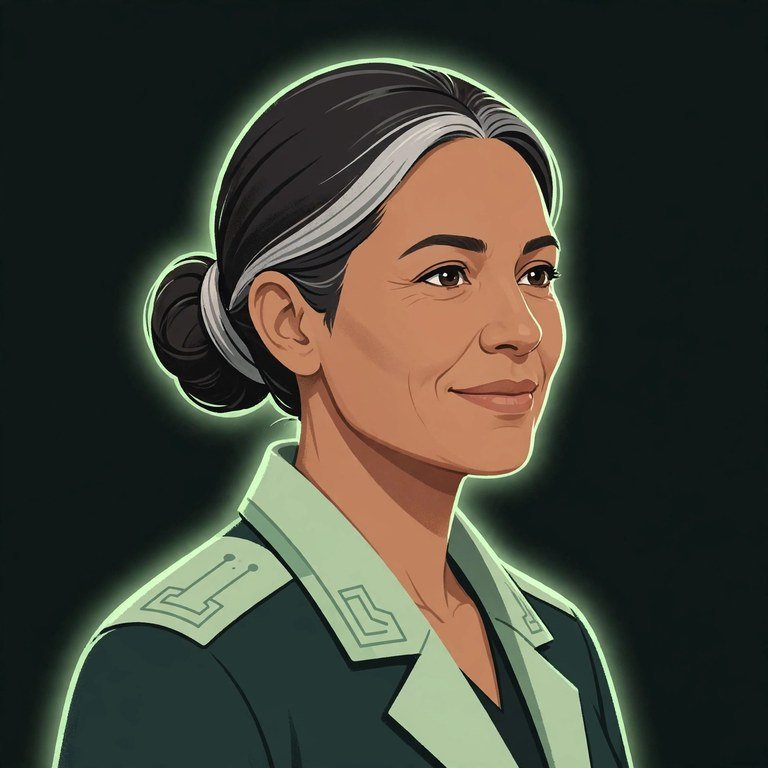
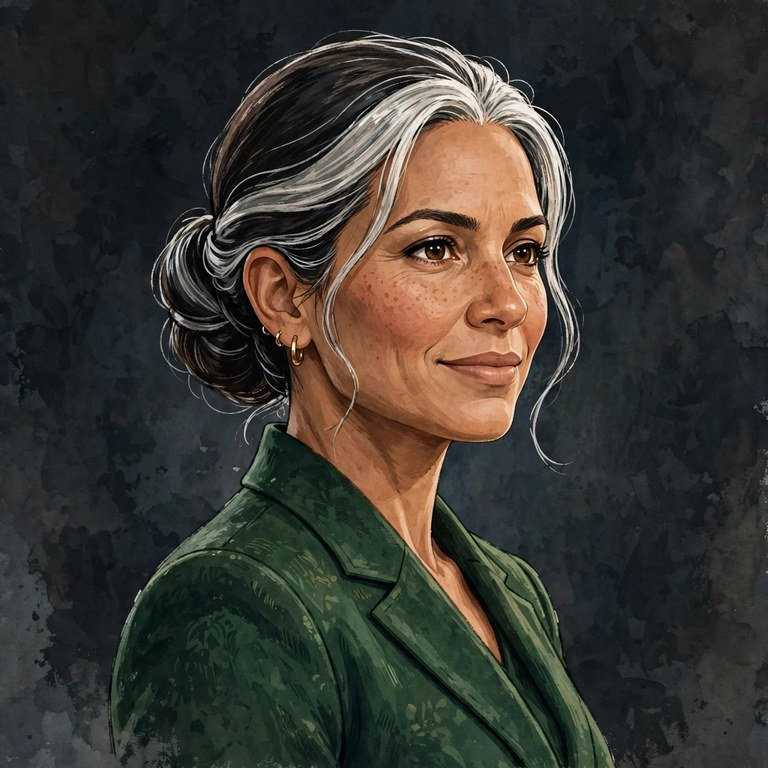
result crew-portraits

diff --git a/results/crew-portraits/RESULT.md b/results/crew-portraits/RESULT.md
@@ -1,76 +1,76 @@
 # Crew portraits — result
 
-Summary: all eleven portraits are done in one shared style — stylised illustration (not photorealistic, no real-person likeness), head-and-shoulders, three-quarter view, soft studio light, calm confident expressions, the same deep green-black background (`#111A17`) for the whole set, and one signature accent colour per character as a clothing detail and rim light. Every portrait is exactly 768×768 and well under 300 KB. `contact-sheet.png` shows all eleven side by side in the task's order. The exact prompt used for each image is listed below so any single portrait can be redone later.
+Summary: all eleven portraits have been redone palette-free, following the update to this task (2026-10-05) that dropped the "Canaan" palette and colour constraints. This set **replaces** the palette-bound set pushed earlier the same day. The priority this time was quality: one consistent premium painterly illustration style across all eleven — head-and-shoulders, three-quarter view, soft diffused studio light, calm confident expressions, the same softly graded dark studio background — with every character designed individually to be distinct and appealing: different ages, features, hair, and wardrobe personalities matched to their roles. No colour palette, hex values, or signature accent colours were imposed. Every portrait is exactly 768×768 and under 300 KB. `contact-sheet.png` shows all eleven side by side in the task's order. The exact prompt used for each image is listed below so any single portrait can be redone later.
 
 ## Files
 
 All in `results/crew-portraits/`. Portraits are 768×768 JPEG; sizes measured after final standardisation (see "How I checked it").
 
-| File | Character — role | Signature accent | Size |
-|---|---|---|---|
-| `ada.jpg` | Ada — lead, organiser | Sage `#B1CCA7` | 70,359 bytes |
-| `chloe.jpg` | Chloe — co-lead, builder | Cyan `#91C2B5` | 68,988 bytes |
-| `wren.jpg` | Wren — researcher | Blue `#91ADBA` | 88,533 bytes |
-| `wilder.jpg` | Wilder — health and fitness planner | Yellow `#D4BE89` | 81,943 bytes |
-| `marlow.jpg` | Marlow — web and app builder | Purple `#B6A6BF` | 74,888 bytes |
-| `sage.jpg` | Sage — systems and housekeeping | Sage, darker shade | 65,084 bytes |
-| `flint.jpg` | Flint — researcher | Red `#DC9184` | 39,979 bytes |
-| `harbor.jpg` | Harbor — reliability and repairs | Blue, darker shade | 55,915 bytes |
-| `petra.jpg` | Petra — designer and planner | Purple, lighter shade | 92,498 bytes |
-| `vega.jpg` | Vega — desktop and devices | Cyan, deeper shade | 74,688 bytes |
-| `muse.jpg` | Muse — outside researcher | Yellow, warmer shade | 96,675 bytes |
-| `contact-sheet.png` | All eleven side by side, in the order above | — | 2,816×256 px, 769,406 bytes |
+| File | Character — role | Size |
+|---|---|---|
+| `ada.jpg` | Ada — lead, organiser | 124,277 bytes |
+| `chloe.jpg` | Chloe — co-lead, builder | 76,492 bytes |
+| `wren.jpg` | Wren — researcher | 111,323 bytes |
+| `wilder.jpg` | Wilder — health and fitness planner | 101,498 bytes |
+| `marlow.jpg` | Marlow — web and app builder | 117,648 bytes |
+| `sage.jpg` | Sage — systems and housekeeping | 145,666 bytes |
+| `flint.jpg` | Flint — researcher | 105,442 bytes |
+| `harbor.jpg` | Harbor — reliability and repairs | 107,201 bytes |
+| `petra.jpg` | Petra — designer and planner | 107,871 bytes |
+| `vega.jpg` | Vega — desktop and devices | 103,205 bytes |
+| `muse.jpg` | Muse — outside researcher | 145,402 bytes |
+| `contact-sheet.png` | All eleven side by side, in the order above | 2,288×208 px, 813,073 bytes |
 
 ## Exact prompts used
 
-One generation call per portrait. Every prompt shares the same style block; only the character paragraph and the accent differ. The prompts below are the exact text passed to the image tool.
+One generation call per portrait. Every prompt shares the same style block; only the character paragraph differs. The prompts below are the exact text passed to the image tool for this set.
 
 **ada.jpg**
-> Stylised illustration portrait, not photorealistic, no real-person likeness, head and shoulders, three-quarter view, soft studio light, calm confident expression, clean simple solid deep green-black background #111A17, consistent team dashboard illustration style, square composition. A fictional woman AI agent character in her 40s, warm brown skin, dark hair with a silver streak in a low bun, steady and warm, the lead and organiser. Sage green #B1CCA7 clothing detail and matching soft rim light. No text.
+> Premium stylised illustration portrait, beautiful painterly character illustration, not photorealistic, no real-person likeness, head and shoulders, three-quarter view, soft diffused studio light, calm confident expression, clean simple softly graded dark studio background, the same consistent illustration style across a whole character team set, square composition, highly detailed. A fictional woman character in her 40s with warm brown skin and dark hair with a silver streak swept into an elegant low bun, small gold hoop earrings, steady and warm, a natural leader, wearing a beautifully tailored deep green blazer. No text.
 
 **chloe.jpg**
-> Stylised illustration portrait, not photorealistic, no real-person likeness, head and shoulders, three-quarter view, soft studio light, calm confident expression, clean simple solid deep green-black background #111A17, consistent team dashboard illustration style, square composition. A fictional East Asian woman AI agent character in her 30s, sharp black bob haircut, sharp and quick, a co-lead and builder. Cyan #91C2B5 clothing detail and matching soft rim light. No text.
+> Premium stylised illustration portrait, beautiful painterly character illustration, not photorealistic, no real-person likeness, head and shoulders, three-quarter view, soft diffused studio light, calm confident expression, clean simple softly graded dark studio background, the same consistent illustration style across a whole character team set, square composition, highly detailed. A fictional East Asian woman character in her 30s with a glossy sharp black bob and delicate features, bright intelligent eyes, sharp and quick, a builder, wearing a minimalist black turtleneck with a fine silver necklace. No text.
 
 **wren.jpg**
-> Stylised illustration portrait, not photorealistic, no real-person likeness, head and shoulders, three-quarter view, soft studio light, calm confident expression, clean simple solid deep green-black background #111A17, consistent team dashboard illustration style, square composition. A fictional South Asian woman AI agent character, long dark wavy hair, thin round glasses, careful and thoughtful, a researcher who is careful with numbers. Soft blue #91ADBA clothing detail and matching soft rim light. No text.
+> Premium stylised illustration portrait, beautiful painterly character illustration, not photorealistic, no real-person likeness, head and shoulders, three-quarter view, soft diffused studio light, calm confident expression, clean simple softly graded dark studio background, the same consistent illustration style across a whole character team set, square composition, highly detailed. A fictional South Asian woman character with long dark wavy hair and thin round glasses, gentle thoughtful expression, a careful researcher, wearing a soft slate-blue cardigan over a cream top. No text.
 
 **wilder.jpg**
-> Stylised illustration portrait, not photorealistic, no real-person likeness, head and shoulders, three-quarter view, soft studio light, calm confident expression, clean simple solid deep green-black background #111A17, consistent team dashboard illustration style, square composition. A fictional Black woman AI agent character, short natural curls, athletic build, energetic and bright, a health and fitness planner. Warm yellow #D4BE89 clothing detail and matching soft rim light. No text.
+> Premium stylised illustration portrait, beautiful painterly character illustration, not photorealistic, no real-person likeness, head and shoulders, three-quarter view, soft diffused studio light, calm confident expression, clean simple softly graded dark studio background, the same consistent illustration style across a whole character team set, square composition, highly detailed. A fictional Black woman character with short natural curls, athletic build and a radiant energetic smile, a health and fitness planner, wearing a rust-orange zip jacket. No text.
 
 **marlow.jpg**
-> Stylised illustration portrait, not photorealistic, no real-person likeness, head and shoulders, three-quarter view, soft studio light, calm confident expression, clean simple solid deep green-black background #111A17, consistent team dashboard illustration style, square composition. A fictional woman AI agent character in her 30s, auburn hair in a ponytail, inventive and focused, a web and app builder. Purple #B6A6BF clothing detail and matching soft rim light. No text.
+> Premium stylised illustration portrait, beautiful painterly character illustration, not photorealistic, no real-person likeness, head and shoulders, three-quarter view, soft diffused studio light, calm confident expression, clean simple softly graded dark studio background, the same consistent illustration style across a whole character team set, square composition, highly detailed. A fictional woman character in her 30s with auburn hair in a high ponytail and a dusting of freckles, inventive and focused, a web and app builder, wearing a cream knit sweater. No text.
 
 **sage.jpg**
-> Stylised illustration portrait, not photorealistic, no real-person likeness, head and shoulders, three-quarter view, soft studio light, calm confident expression, clean simple solid deep green-black background #111A17, consistent team dashboard illustration style, square composition. A fictional woman AI agent character in her 50s, grey hair in a long braid, serene and methodical, responsible for systems and housekeeping. Deep sage green clothing detail, a darker shade than light sage, and matching soft rim light. No text.
+> Premium stylised illustration portrait, beautiful painterly character illustration, not photorealistic, no real-person likeness, head and shoulders, three-quarter view, soft diffused studio light, calm confident expression, clean simple softly graded dark studio background, the same consistent illustration style across a whole character team set, square composition, highly detailed. A fictional woman character in her late 50s with silver-grey hair in a long side braid and kind eyes, serene and methodical, wearing a woven moss-toned shawl over a simple top. No text.
 
 **flint.jpg**
-> Stylised illustration portrait, not photorealistic, no real-person likeness, head and shoulders, three-quarter view, soft studio light, calm confident expression, clean simple solid deep green-black background #111A17, consistent team dashboard illustration style, square composition. A fictional woman AI agent character, short cropped copper-red hair, light freckles, direct and no-nonsense, a researcher. Muted red #DC9184 clothing detail and matching soft rim light. No text.
+> Premium stylised illustration portrait, beautiful painterly character illustration, not photorealistic, no real-person likeness, head and shoulders, three-quarter view, soft diffused studio light, calm confident expression, clean simple softly graded dark studio background, the same consistent illustration style across a whole character team set, square composition, highly detailed. A fictional woman character with a short cropped copper-red pixie cut and light freckles, striking green eyes, direct and no-nonsense, a researcher, wearing a burgundy top. No text.
 
 **harbor.jpg**
-> Stylised illustration portrait, not photorealistic, no real-person likeness, head and shoulders, three-quarter view, soft studio light, calm confident expression, clean simple solid deep green-black background #111A17, consistent team dashboard illustration style, square composition. A fictional woman AI agent character, strong build, dark brown hair in a practical braid, dependable and calm under pressure, responsible for reliability and repairs. Dark slate blue clothing detail, a darker shade than soft blue, and matching soft rim light. No text.
+> Premium stylised illustration portrait, beautiful painterly character illustration, not photorealistic, no real-person likeness, head and shoulders, three-quarter view, soft diffused studio light, calm confident expression, clean simple softly graded dark studio background, the same consistent illustration style across a whole character team set, square composition, highly detailed. A fictional woman character with a strong build and dark brown hair in a thick practical braid, dependable and calm under pressure, wearing a sturdy indigo work jacket. No text.
 
 **petra.jpg**
-> Stylised illustration portrait, not photorealistic, no real-person likeness, head and shoulders, three-quarter view, soft studio light, calm confident expression, clean simple solid deep green-black background #111A17, consistent team dashboard illustration style, square composition. A fictional Mediterranean woman AI agent character, voluminous curly dark hair, elegant and precise, a designer and planner. Light lavender purple clothing detail, a lighter shade than mid purple, and matching soft rim light. No text.
+> Premium stylised illustration portrait, beautiful painterly character illustration, not photorealistic, no real-person likeness, head and shoulders, three-quarter view, soft diffused studio light, calm confident expression, clean simple softly graded dark studio background, the same consistent illustration style across a whole character team set, square composition, highly detailed. A fictional Mediterranean woman character with voluminous curly dark hair and warm olive skin, elegant and precise, a designer and planner, wearing a plum blazer with a delicate pendant. No text.
 
 **vega.jpg**
-> Stylised illustration portrait, not photorealistic, no real-person likeness, head and shoulders, three-quarter view, soft studio light, calm confident expression, clean simple solid deep green-black background #111A17, consistent team dashboard illustration style, square composition. A fictional woman AI agent character, sleek dark hair with a subtle undercut, poised and technical, responsible for desktop and devices. Deep teal cyan clothing detail, a deeper shade than light cyan, and matching soft rim light. No text.
+> Premium stylised illustration portrait, beautiful painterly character illustration, not photorealistic, no real-person likeness, head and shoulders, three-quarter view, soft diffused studio light, calm confident expression, clean simple softly graded dark studio background, the same consistent illustration style across a whole character team set, square composition, highly detailed. A fictional woman character with sleek dark hair and a subtle undercut, poised and technical, small modern ear cuff, wearing a graphite high-collar top. No text.
 
 **muse.jpg**
-> Stylised illustration portrait, not photorealistic, no real-person likeness, head and shoulders, three-quarter view, soft studio light, calm confident expression, clean simple solid deep green-black background #111A17, consistent team dashboard illustration style, square composition. A fictional woman AI agent character, warm golden-brown wavy shoulder-length hair, curious and friendly, an outside researcher. Warm golden yellow clothing detail, a warmer shade than pale yellow, and matching soft rim light. No text.
+> Premium stylised illustration portrait, beautiful painterly character illustration, not photorealistic, no real-person likeness, head and shoulders, three-quarter view, soft diffused studio light, calm confident expression, clean simple softly graded dark studio background, the same consistent illustration style across a whole character team set, square composition, highly detailed. A fictional woman character with warm golden-brown wavy shoulder-length hair and a curious friendly expression, an outside researcher, wearing a warm mustard coat over a dark top. No text.
 
 ## Quota
 
-**11 image-generation calls** — exactly one per portrait. The contact sheet and the resizing/compression were done locally with Pillow and used no generation quota. The image tool did not report a quota figure or remaining balance, so I cannot state a percentage — only the call count above.
+**11 image-generation calls for this set** — exactly one per portrait (22 generation calls across both versions of this task, including the superseded palette set). The contact sheet and the resizing/compression were done locally with Pillow and used no generation quota. The image tool did not report a quota figure or remaining balance, so I cannot state a percentage — only the call counts above.
 
 ## How I checked it
 
-- Generated at 1600×1600, then standardised locally: centre-cropped square (they were already square), resized to exactly 768×768, saved as JPEG quality 88. Final dimensions and file sizes were verified programmatically for all eleven files — every one is 768×768 and between 39,979 and 96,675 bytes, i.e. under the 300 KB target and the 1 MB repo limit.
-- Built `contact-sheet.png` from the final files and **looked at it**: all eleven read as one set (same illustration style, lighting, dark background, head-and-shoulders three-quarter framing), each character is visually distinct, and each accent colour is visible as clothing/rim light. No text or watermarks appear in any portrait.
-- The raw generation outputs and their metadata files were moved out of the results folder, so this folder contains only the eleven portraits, the contact sheet and this file.
+- Generated at 1600×1600, then standardised locally: centre-cropped square (they were already square), resized to exactly 768×768, saved as JPEG quality 88. Final dimensions and file sizes were verified programmatically for all eleven files — every one is 768×768 and between 76,492 and 145,666 bytes, i.e. under the 300 KB target and the 1 MB repo limit.
+- Built `contact-sheet.png` from the final files and **looked at it**: all eleven read clearly as one set (same painterly illustration style, lighting and dark studio background, head-and-shoulders three-quarter framing), and every character is visually distinct in age, features, hair and wardrobe. No text or watermarks appear in any portrait.
+- This set fully replaces the earlier one: the same eleven filenames were overwritten, the contact sheet was rebuilt from the new files, and no files from the palette set remain in this folder.
 - Scanned this file and the file list for personal details before committing: none — all characters are fictional, and no names beyond the crew's character names, addresses, accounts or credentials appear anywhere.
 
 ## Unsure about
 
-- **Appearances are my invention.** The task gave name, role, vibe and accent colour for each character, but no appearance, age or ethnicity — I assigned distinct looks so the set reads as a team of different people. If the crew has specific looks in mind for anyone, give me a description and I will redo just that one portrait from its prompt above.
-- **Shade interpretations:** where the task said "a different / darker / lighter shade" of a shared colour (Sage vs Ada, Harbor, Petra, Vega), the exact shade was described in words in the prompt rather than as a hex value, because the task gave no hex for the variants. The generator's interpretation is consistent across the set but not a precise hex match.
-- **Style consistency** was achieved with an identical style block in every prompt and verified by eye on the contact sheet; it is not pixel-level identical lighting, and a redo of a single portrait may drift slightly from the set.
+- **Appearances are still my invention.** The task gave name, role and vibe for each character, but no appearance, age or ethnicity — I designed distinct looks so the set reads as a team of different people. If the crew has specific looks in mind for anyone, give me a description and I will redo just that one portrait from its prompt above.
+- **Style consistency** was achieved with an identical style block in every prompt and verified by eye on the contact sheet; it is not pixel-level identical background or lighting, and a redo of a single portrait may drift slightly from the set.
+- The background is a softly graded dark studio backdrop, chosen for consistency and contrast now that the palette is dropped; it is deliberately not the old `#111A17` flat background.
